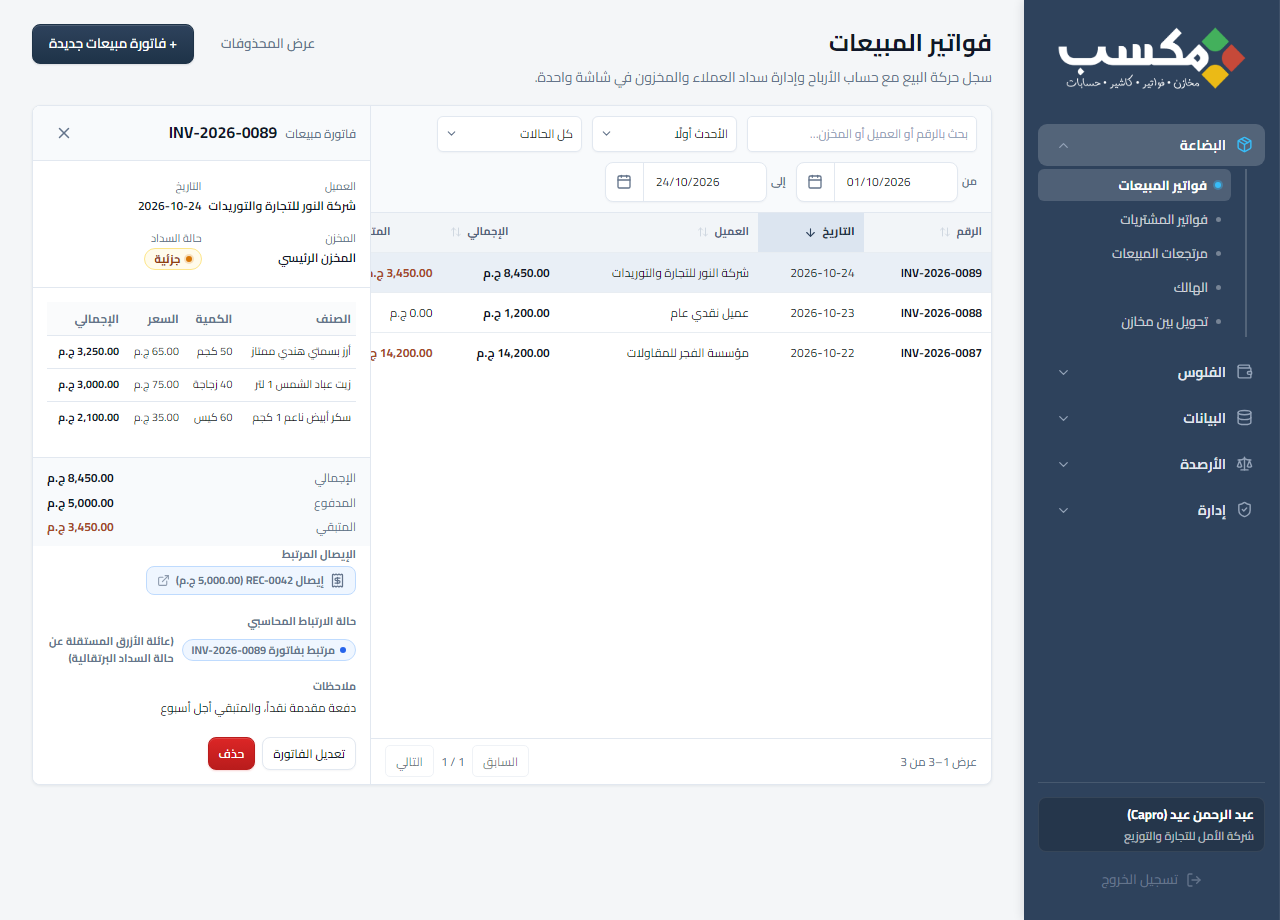
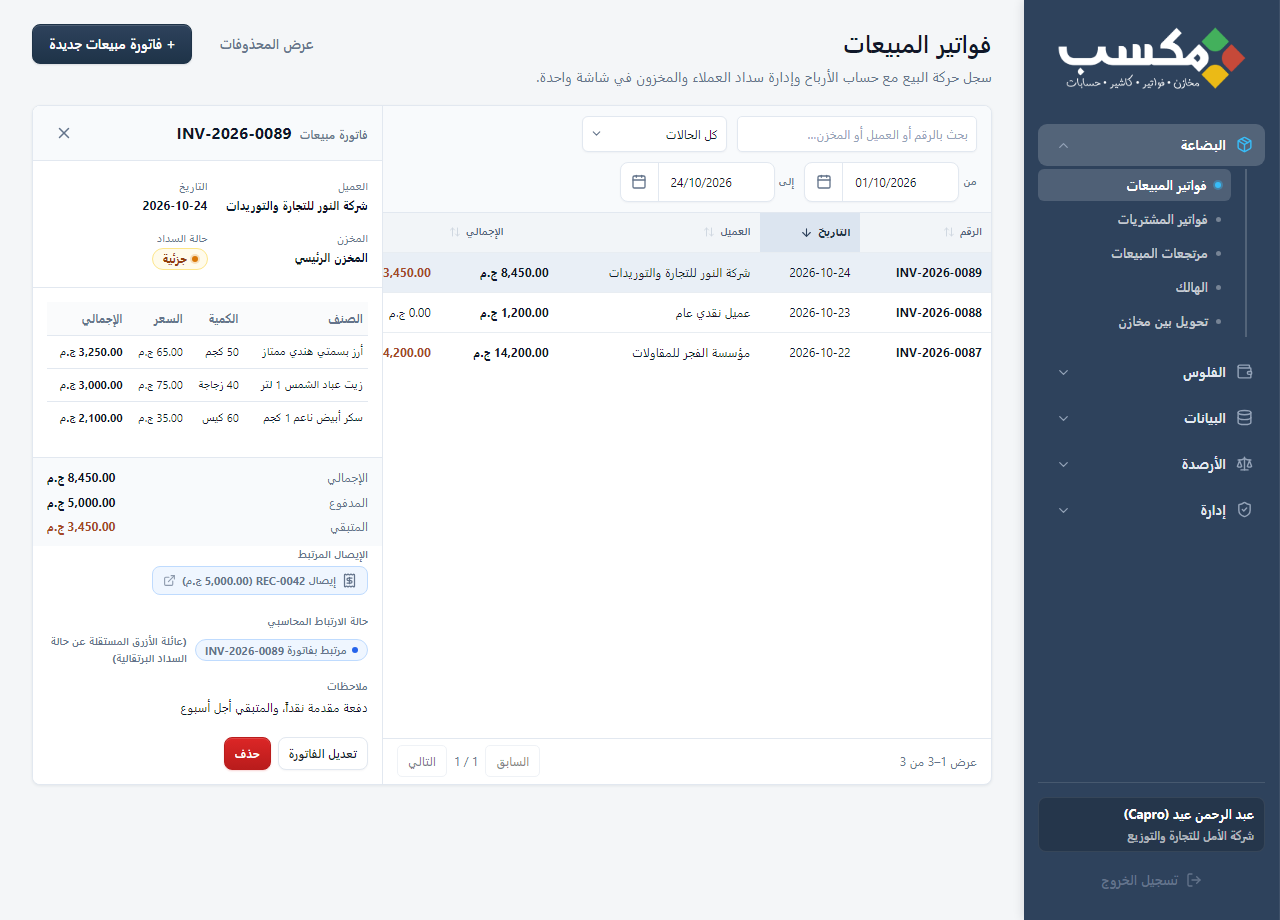
refactor(ui): remove redundant sort dropdowns now handled by sortable table headers

diff --git a/src/pages/Management.tsx b/src/pages/Management.tsx
@@ -8,10 +8,11 @@ import type { AccountRow, CashBoxRow, StockOpeningRow, WarehouseOption } from '.
 import { useAccess } from '../lib/access';
 import UserPermissions from '../components/UserPermissions';
 import SearchableSelect from '../components/SearchableSelect';
+import SortableHeader from '../components/SortableHeader';
 import { toast } from '../components/Toast';
 
 type ManagementTab = 'customers' | 'suppliers' | 'items' | 'cashBoxes' | 'users';
-type ManagementSort = 'name-asc' | 'serial-desc' | 'serial-asc';
+type ManagementSort = 'name-asc' | 'name-desc' | 'serial-desc' | 'serial-asc';
 const PAGE_SIZE = 20;
 
 const VALID_MANAGEMENT_TABS: ManagementTab[] = ['customers', 'suppliers', 'items', 'cashBoxes', 'users'];
@@ -162,6 +163,7 @@ export default function Management() {
     return list.sort((a, b) => {
       if (sortOrder === 'serial-desc') return (b.serial_number ?? 0) - (a.serial_number ?? 0);
       if (sortOrder === 'serial-asc') return (a.serial_number ?? 0) - (b.serial_number ?? 0);
+      if (sortOrder === 'name-desc') return b.name.localeCompare(a.name, 'ar');
       return a.name.localeCompare(b.name, 'ar');
     });
   }, [visibleAccounts, searchTerm, sortOrder]);
@@ -178,6 +180,7 @@ export default function Management() {
     return list.sort((a, b) => {
       if (sortOrder === 'serial-desc') return b.item_number - a.item_number;
       if (sortOrder === 'serial-asc') return a.item_number - b.item_number;
+      if (sortOrder === 'name-desc') return b.item_name.localeCompare(a.item_name, 'ar');
       return a.item_name.localeCompare(b.item_name, 'ar');
     });
   }, [stockRows, selectedWarehouseId, searchTerm, sortOrder]);
@@ -192,6 +195,7 @@ export default function Management() {
     return list.sort((a, b) => {
       if (sortOrder === 'serial-desc') return b.serial_number - a.serial_number;
       if (sortOrder === 'serial-asc') return a.serial_number - b.serial_number;
+      if (sortOrder === 'name-desc') return b.name.localeCompare(a.name, 'ar');
       return a.name.localeCompare(b.name, 'ar');
     });
   }, [cashBoxes, searchTerm, sortOrder]);
@@ -281,17 +285,6 @@ export default function Management() {
                   />
                 </label>
 
-                <SearchableSelect
-                  ariaLabel="ترتيب النتائج"
-                  value={sortOrder}
-                  options={[
-                    { value: 'name-asc', label: 'الاسم (أ – ي)' },
-                    { value: 'serial-desc', label: 'الرقم (الأحدث)' },
-                    { value: 'serial-asc', label: 'الرقم (الأقدم)' },
-                  ]}
-                  onChange={(val) => setSortOrder(val as ManagementSort)}
-                />
-
                 {tab === 'items' && (
                   <SearchableSelect
                     ariaLabel="اختيار المخزن"
@@ -315,8 +308,19 @@ export default function Management() {
                 <table className="table erp-table">
                   <thead>
                     <tr>
-                      <th>الرقم</th>
-                      <th>الحساب</th>
+                      <SortableHeader
+                        label="الرقم"
+                        field="serial"
+                        currentSort={sortOrder}
+                        onSort={(s) => setSortOrder(s as ManagementSort)}
+                      />
+                      <SortableHeader
+                        label="الحساب"
+                        field="name"
+                        currentSort={sortOrder}
+                        onSort={(s) => setSortOrder(s as ManagementSort)}
+                        defaultDirection="asc"
+                      />
                       <th>النوع</th>
                       <th className="num">الرصيد الافتتاحي</th>
                       <th className="num">الرصيد الحالي</th>
@@ -369,9 +373,20 @@ export default function Management() {
                 <table className="table erp-table">
                   <thead>
                     <tr>
-                      <th>الرقم</th>
+                      <SortableHeader
+                        label="الرقم"
+                        field="serial"
+                        currentSort={sortOrder}
+                        onSort={(s) => setSortOrder(s as ManagementSort)}
+                      />
                       <th>الكود</th>
-                      <th>الصنف</th>
+                      <SortableHeader
+                        label="الصنف"
+                        field="name"
+                        currentSort={sortOrder}
+                        onSort={(s) => setSortOrder(s as ManagementSort)}
+                        defaultDirection="asc"
+                      />
                       <th className="num">كمية البداية</th>
                       <th className="num">تكلفة الوحدة</th>
                       <th className="num">المتاح الآن</th>
@@ -430,8 +445,19 @@ export default function Management() {
                 <table className="table erp-table">
                   <thead>
                     <tr>
-                      <th>الرقم</th>
-                      <th>الخزنة</th>
+                      <SortableHeader
+                        label="الرقم"
+                        field="serial"
+                        currentSort={sortOrder}
+                        onSort={(s) => setSortOrder(s as ManagementSort)}
+                      />
+                      <SortableHeader
+                        label="الخزنة"
+                        field="name"
+                        currentSort={sortOrder}
+                        onSort={(s) => setSortOrder(s as ManagementSort)}
+                        defaultDirection="asc"
+                      />
                       <th className="num">الرصيد الافتتاحي</th>
                       <th className="num">الرصيد الحالي</th>
                     </tr>

diff --git a/src/pages/PreviewPhase3And4.tsx b/src/pages/PreviewPhase3And4.tsx
@@ -314,22 +314,6 @@ export default function PreviewPhase3And4() {
                     </label>
 
                     <SearchableSelect
-                      ariaLabel="ترتيب النتائج"
-                      value={sortOrder}
-                      options={[
-                        { value: 'date-desc', label: 'الأحدث أولًا' },
-                        { value: 'date-asc', label: 'الأقدم أولًا' },
-                        { value: 'number-desc', label: 'الرقم (تنازلي)' },
-                        { value: 'number-asc', label: 'الرقم (تصاعدي)' },
-                        { value: 'total-desc', label: 'الأعلى قيمة' },
-                        { value: 'total-asc', label: 'الأقل قيمة' },
-                        { value: 'customer-asc', label: 'العميل (أ – ي)' },
-                        { value: 'remaining-desc', label: 'الأعلى متبقيًا' },
-                      ]}
-                      onChange={setSortOrder}
-                    />
-
-                    <SearchableSelect
                       ariaLabel="تصفية حسب حالة السداد"
                       value={statusFilter}
                       options={[
@@ -342,13 +326,15 @@ export default function PreviewPhase3And4() {
                     />
 
                     {/* Shared DateInput components */}
-                    <div className="erp-date">
-                      <span>من</span>
-                      <DateInput value={dateFrom} onChange={setDateFrom} ariaLabel="من تاريخ" />
-                    </div>
-                    <div className="erp-date">
-                      <span>إلى</span>
-                      <DateInput value={dateTo} onChange={setDateTo} ariaLabel="إلى تاريخ" />
+                    <div className="erp-date-range">
+                      <div className="erp-date">
+                        <span>من</span>
+                        <DateInput value={dateFrom} onChange={setDateFrom} ariaLabel="من تاريخ" />
+                      </div>
+                      <div className="erp-date">
+                        <span>إلى</span>
+                        <DateInput value={dateTo} onChange={setDateTo} ariaLabel="إلى تاريخ" />
+                      </div>
                     </div>
                   </div>
                 </div>

diff --git a/src/pages/Receipts.tsx b/src/pages/Receipts.tsx
@@ -518,22 +518,6 @@ export default function Receipts() {
               </label>
 
               <SearchableSelect
-                ariaLabel="ترتيب النتائج"
-                value={sortOrder}
-                options={[
-                  { value: 'date-desc', label: 'الأحدث أولًا' },
-                  { value: 'date-asc', label: 'الأقدم أولًا' },
-                  { value: 'number-desc', label: 'الرقم (تنازلي)' },
-                  { value: 'number-asc', label: 'الرقم (تصاعدي)' },
-                  { value: 'amount-desc', label: 'الأعلى مبلغًا' },
-                  { value: 'amount-asc', label: 'الأقل مبلغًا' },
-                  { value: 'account-asc', label: 'الحساب (أ-ي)' },
-                  { value: 'account-desc', label: 'الحساب (ي-أ)' },
-                ]}
-                onChange={(val) => setSortOrder(val as ReceiptSort)}
-              />
-
-              <SearchableSelect
                 ariaLabel="تصفية حسب الخزنة"
                 value={cashBoxFilter}
                 options={[
@@ -547,8 +531,10 @@ export default function Receipts() {
                 searchPlaceholder="بحث عن خزنة…"
               />
 
-              <div className="erp-date"><span>من</span><DateInput value={dateFrom} onChange={setDateFrom} ariaLabel="من تاريخ" /></div>
-              <div className="erp-date"><span>إلى</span><DateInput value={dateTo} onChange={setDateTo} ariaLabel="إلى تاريخ" /></div>
+              <div className="erp-date-range">
+                <div className="erp-date"><span>من</span><DateInput value={dateFrom} onChange={setDateFrom} ariaLabel="من تاريخ" /></div>
+                <div className="erp-date"><span>إلى</span><DateInput value={dateTo} onChange={setDateTo} ariaLabel="إلى تاريخ" /></div>
+              </div>
             </div>
           </div>
 

diff --git a/src/pages/Invoices.tsx b/src/pages/Invoices.tsx
@@ -565,22 +565,6 @@ export default function Invoices() {
                 />
               </label>
 
-              <SearchableSelect
-                ariaLabel="ترتيب النتائج"
-                value={sortOrder}
-                options={[
-                  { value: 'date-desc', label: 'الأحدث أولًا' },
-                  { value: 'date-asc', label: 'الأقدم أولًا' },
-                  { value: 'number-desc', label: 'الرقم (تنازلي)' },
-                  { value: 'number-asc', label: 'الرقم (تصاعدي)' },
-                  { value: 'total-desc', label: 'الأعلى قيمة' },
-                  { value: 'total-asc', label: 'الأقل قيمة' },
-                  { value: 'account-asc', label: `${partyHeader} (أ – ي)` },
-                  { value: 'remaining-desc', label: 'الأعلى متبقيًا' },
-                ]}
-                onChange={(val) => setSortOrder(val as SaleSort)}
-              />
-
               {!isWarehouseTransfer && kind !== 'waste' && (
                 <SearchableSelect
                   ariaLabel="حالة السداد"
@@ -595,8 +579,10 @@ export default function Invoices() {
                 />
               )}
 
-              <div className="erp-date"><span>من</span><DateInput value={dateFrom} onChange={setDateFrom} ariaLabel="من تاريخ" /></div>
-              <div className="erp-date"><span>إلى</span><DateInput value={dateTo} onChange={setDateTo} ariaLabel="إلى تاريخ" /></div>
+              <div className="erp-date-range">
+                <div className="erp-date"><span>من</span><DateInput value={dateFrom} onChange={setDateFrom} ariaLabel="من تاريخ" /></div>
+                <div className="erp-date"><span>إلى</span><DateInput value={dateTo} onChange={setDateTo} ariaLabel="إلى تاريخ" /></div>
+              </div>
             </div>
           </div>
 

diff --git a/src/styles/pages/erp-workspace.css b/src/styles/pages/erp-workspace.css
@@ -1,7 +1,7 @@
 /* ---------- ERP Workspace System (List & Detail Panels) ---------- */
 .erp-sales-workspace {
   display: grid;
-  grid-template-columns: minmax(620px, 1fr) minmax(320px, 390px);
+  grid-template-columns: minmax(560px, 1fr) minmax(300px, 350px);
   min-height: min(680px, calc(100dvh - 170px));
   overflow: hidden;
   border: 1px solid var(--erp-border);
@@ -55,12 +55,19 @@
   min-width: 160px;
 }
 .erp-search {
-  flex: 0 1 230px;
-  min-width: 170px;
+  flex: 1 1 180px;
+  max-width: 240px;
+  min-width: 140px;
 }
 .erp-search input { width: 100%; }
+.erp-date-range {
+  display: inline-flex;
+  align-items: center;
+  gap: var(--erp-space-2);
+  flex-shrink: 0;
+}
 .erp-date { display: inline-flex; align-items: center; gap: 4px; color: var(--erp-muted); font-size: 11px; font-weight: 650; flex-shrink: 0; }
-.erp-date input { width: 122px; }
+.erp-date input { width: 115px; }
 
 .erp-detail-panel { display: flex; flex-direction: column; min-width: 0; border-inline-start: 1px solid var(--erp-border); background: var(--erp-surface); }
 .erp-detail-head {
@@ -125,7 +132,8 @@
   .erp-search { flex: 1 0 100%; }
   .erp-search input { width: 100%; }
   .erp-filters .searchable-select { flex: 1 1 calc(50% - 4px); min-width: 130px; }
-  .erp-date { flex: 1 1 100%; justify-content: space-between; }
+  .erp-date-range { display: flex; width: 100%; gap: 8px; }
+  .erp-date { flex: 1 1 calc(50% - 4px); justify-content: space-between; }
   .erp-date input { flex: 1; }
   .erp-detail-panel { display: none; }
   .erp-detail-panel.open { display: flex; position: fixed; inset: 0; z-index: 50; border: 0; }

diff --git a/src/pages/MasterData.tsx b/src/pages/MasterData.tsx
@@ -627,24 +627,6 @@ export default function MasterData() {
               </label>
 
               <SearchableSelect
-                ariaLabel="ترتيب النتائج"
-                value={sortOrder}
-                options={[
-                  { value: 'name-asc', label: 'الاسم (أ – ي)' },
-                  { value: 'name-desc', label: 'الاسم (ي – أ)' },
-                  { value: 'serial-desc', label: 'الرقم التسلسلي (الأحدث)' },
-                  { value: 'serial-asc', label: 'الرقم التسلسلي (الأقدم)' },
-                  ...(tab === 'items'
-                    ? [
-                        { value: 'price-desc', label: 'الأعلى سعر بيع' },
-                        { value: 'price-asc', label: 'الأقل سعر بيع' },
-                      ]
-                    : []),
-                ]}
-                onChange={(val) => setSortOrder(val as MasterSort)}
-              />
-
-              <SearchableSelect
                 ariaLabel="تصفية الحالة"
                 value={statusFilter}
                 options={[

diff --git a/src/pages/Balances.tsx b/src/pages/Balances.tsx
@@ -346,20 +346,6 @@ export default function Balances() {
                 />
               </label>
 
-              <SearchableSelect
-                ariaLabel="ترتيب النتائج"
-                value={sortOrder}
-                options={[
-                  { value: 'balance-desc', label: tab === 'items' ? 'الأعلى كمية' : 'الأعلى رصيدًا' },
-                  { value: 'balance-asc', label: tab === 'items' ? 'الأقل كمية' : 'الأقل رصيدًا' },
-                  { value: 'name-asc', label: 'الاسم (أ – ي)' },
-                  { value: 'name-desc', label: 'الاسم (ي – أ)' },
-                  { value: 'serial-desc', label: 'الرقم (تنازلي)' },
-                  { value: 'serial-asc', label: 'الرقم (تصاعدي)' },
-                ]}
-                onChange={(val) => setSortOrder(val as BalanceSort)}
-              />
-
               {tab === 'items' && (
                 <SearchableSelect
                   ariaLabel="تصفية حسب المخزن"
